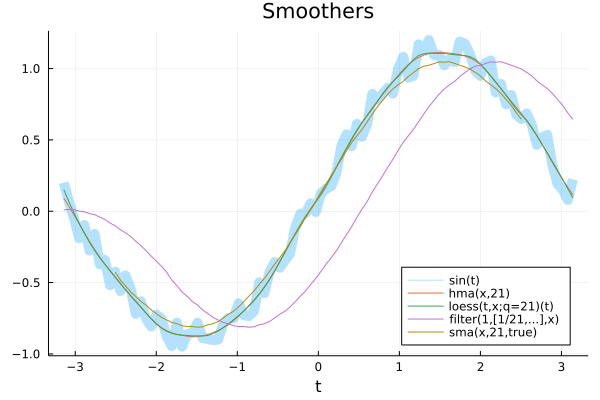
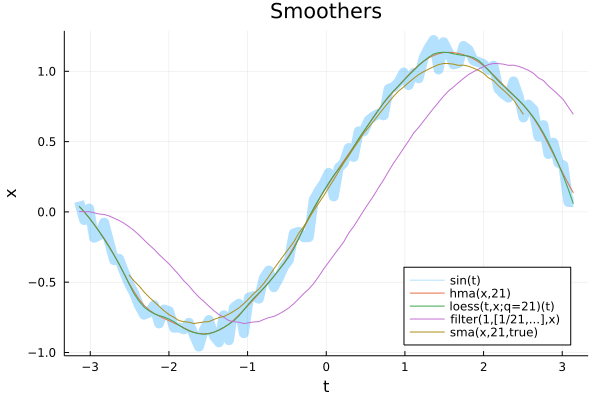
update README

diff --git a/README.md b/README.md
@@ -20,7 +20,8 @@ x = sin.(t) .+ 0.25*rand(length(t));
 
 # Data
 w = 21; sw = string(w)
-plot(t,x,label="sin(t)",linewidth=10,alpha=.3, xlabel = "t", 
+plot(t,x,label="sin(t)",linewidth=10,alpha=.3,
+     xlabel = "t", ylabel = "x",
      title="Smoothers",legend=:bottomright)
 
 # Henderson Moving Average Filter
